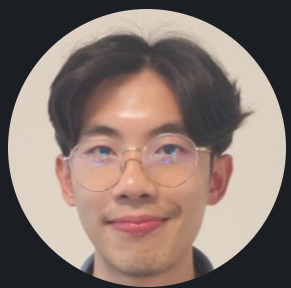
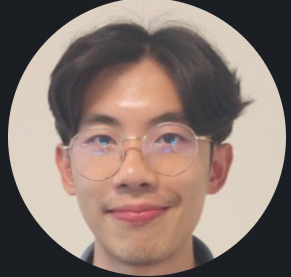
update site layout

diff --git a/index.html b/index.html
@@ -33,18 +33,6 @@
         <a href="index.html"    class="text-sm font-semibold text-white border-b-2 border-white pb-0.5">About</a>
         <a href="projects.html" class="text-sm font-medium text-blue-100 hover:text-white transition-colors">Projects</a>
         <a href="posts.html"    class="text-sm font-medium text-blue-100 hover:text-white transition-colors">Posts</a>
-        <div class="flex items-center gap-3 pl-4 border-l border-blue-400">
-          <a href="https://github.com/caosanity" target="_blank" rel="noopener noreferrer" class="text-blue-100 hover:text-white transition-colors" aria-label="GitHub">
-            <svg class="w-5 h-5" fill="currentColor" viewBox="0 0 24 24">
-              <path d="M12 0c-6.626 0-12 5.373-12 12 0 5.302 3.438 9.8 8.207 11.387.599.111.793-.261.793-.577v-2.234c-3.338.726-4.033-1.416-4.033-1.416-.546-1.387-1.333-1.756-1.333-1.756-1.089-.745.083-.729.083-.729 1.205.084 1.839 1.237 1.839 1.237 1.07 1.834 2.807 1.304 3.492.997.107-.775.418-1.305.762-1.604-2.665-.305-5.467-1.334-5.467-5.931 0-1.311.469-2.381 1.236-3.221-.124-.303-.535-1.524.117-3.176 0 0 1.008-.322 3.301 1.23.957-.266 1.983-.399 3.003-.404 1.02.005 2.047.138 3.006.404 2.291-1.552 3.297-1.23 3.297-1.23.653 1.653.242 2.874.118 3.176.77.84 1.235 1.911 1.235 3.221 0 4.609-2.807 5.624-5.479 5.921.43.372.823 1.102.823 2.222v3.293c0 .319.192.694.801.576 4.765-1.589 8.199-6.086 8.199-11.386 0-6.627-5.373-12-12-12z"/>
-            </svg>
-          </a>
-          <a href="https://www.linkedin.com/in/jeff-cao/" target="_blank" rel="noopener noreferrer" class="text-blue-100 hover:text-white transition-colors" aria-label="LinkedIn">
-            <svg class="w-5 h-5" fill="currentColor" viewBox="0 0 24 24">
-              <path d="M20.447 20.452h-3.554v-5.569c0-1.328-.027-3.037-1.852-3.037-1.853 0-2.136 1.445-2.136 2.939v5.667H9.351V9h3.414v1.561h.046c.477-.9 1.637-1.85 3.37-1.85 3.601 0 4.267 2.37 4.267 5.455v6.286zM5.337 7.433a2.062 2.062 0 01-2.063-2.065 2.064 2.064 0 112.063 2.065zm1.782 13.019H3.555V9h3.564v11.452zM22.225 0H1.771C.792 0 0 .774 0 1.729v20.542C0 23.227.792 24 1.771 24h20.451C23.2 24 24 23.227 24 22.271V1.729C24 .774 23.2 0 22.222 0h.003z"/>
-            </svg>
-          </a>
-        </div>
       </nav>
 
       <!-- Mobile hamburger -->
@@ -64,10 +52,6 @@
         <a href="index.html"    class="text-sm font-semibold text-white">About</a>
         <a href="projects.html" class="text-sm font-medium text-blue-100 hover:text-white transition-colors">Projects</a>
         <a href="posts.html"    class="text-sm font-medium text-blue-100 hover:text-white transition-colors">Posts</a>
-        <div class="flex items-center gap-4 pt-3 border-t border-blue-500">
-          <a href="https://github.com/caosanity" target="_blank" rel="noopener noreferrer" class="text-sm font-medium text-blue-100 hover:text-white transition-colors">GitHub</a>
-          <a href="https://www.linkedin.com/in/jeff-cao/" target="_blank" rel="noopener noreferrer" class="text-sm font-medium text-blue-100 hover:text-white transition-colors">LinkedIn</a>
-        </div>
       </nav>
     </div>
   </header>
@@ -90,18 +74,36 @@
             <p class="fade-in-delay-3 text-xl md:text-2xl text-gray-400 font-light mb-8 leading-relaxed italic">
               Bridging operations and intelligence.
             </p>
-            <div class="fade-in-delay-4 flex flex-wrap gap-4">
-              <a href="projects.html" class="inline-flex items-center gap-2 bg-blue-500 text-white font-semibold px-6 py-3 rounded-lg hover:bg-blue-600 transition-colors shadow-sm">
-                View Projects
-                <svg class="w-4 h-4" fill="none" stroke="currentColor" viewBox="0 0 24 24">
+            <div class="fade-in-delay-4 grid grid-cols-2 md:grid-cols-3 gap-3">
+              <a href="projects.html" class="flex items-center justify-center gap-2 bg-blue-500 text-white font-semibold px-4 py-3 rounded-lg hover:bg-blue-600 transition-colors shadow-sm">
+                <svg class="w-4 h-4 shrink-0" fill="none" stroke="currentColor" viewBox="0 0 24 24">
                   <path stroke-linecap="round" stroke-linejoin="round" stroke-width="2" d="M17 8l4 4m0 0l-4 4m4-4H3"/>
                 </svg>
+                View Projects
               </a>
-              <a href="posts.html" class="inline-flex items-center gap-2 border border-gray-200 text-gray-700 font-semibold px-6 py-3 rounded-lg hover:border-blue-300 hover:text-blue-600 transition-colors">
+              <a href="posts.html" class="flex items-center justify-center gap-2 border border-gray-200 text-gray-700 font-semibold px-4 py-3 rounded-lg hover:border-blue-300 hover:text-blue-600 transition-colors">
                 Read Posts
               </a>
-              <a href="assets/resume/Jeff Cao - Resume.pdf" download class="inline-flex items-center gap-2 border border-gray-200 text-gray-700 font-semibold px-6 py-3 rounded-lg hover:border-blue-300 hover:text-blue-600 transition-colors">
-                <svg class="w-4 h-4" fill="none" stroke="currentColor" viewBox="0 0 24 24">
+              <a href="mailto:jeffcao88@outlook.com" class="flex items-center justify-center gap-2 border border-gray-200 text-gray-700 font-semibold px-4 py-3 rounded-lg hover:border-blue-300 hover:text-blue-600 transition-colors">
+                <svg class="w-4 h-4 shrink-0" fill="none" stroke="currentColor" viewBox="0 0 24 24">
+                  <path stroke-linecap="round" stroke-linejoin="round" stroke-width="2" d="M3 8l7.89 5.26a2 2 0 002.22 0L21 8M5 19h14a2 2 0 002-2V7a2 2 0 00-2-2H5a2 2 0 00-2 2v10a2 2 0 002 2z"/>
+                </svg>
+                Get in Touch
+              </a>
+              <a href="https://github.com/caosanity" target="_blank" rel="noopener noreferrer" class="flex items-center justify-center gap-2 border border-gray-200 text-gray-700 font-semibold px-4 py-3 rounded-lg hover:border-blue-300 hover:text-blue-600 transition-colors">
+                <svg class="w-4 h-4 shrink-0" fill="currentColor" viewBox="0 0 24 24">
+                  <path d="M12 0c-6.626 0-12 5.373-12 12 0 5.302 3.438 9.8 8.207 11.387.599.111.793-.261.793-.577v-2.234c-3.338.726-4.033-1.416-4.033-1.416-.546-1.387-1.333-1.756-1.333-1.756-1.089-.745.083-.729.083-.729 1.205.084 1.839 1.237 1.839 1.237 1.07 1.834 2.807 1.304 3.492.997.107-.775.418-1.305.762-1.604-2.665-.305-5.467-1.334-5.467-5.931 0-1.311.469-2.381 1.236-3.221-.124-.303-.535-1.524.117-3.176 0 0 1.008-.322 3.301 1.23.957-.266 1.983-.399 3.003-.404 1.02.005 2.047.138 3.006.404 2.291-1.552 3.297-1.23 3.297-1.23.653 1.653.242 2.874.118 3.176.77.84 1.235 1.911 1.235 3.221 0 4.609-2.807 5.624-5.479 5.921.43.372.823 1.102.823 2.222v3.293c0 .319.192.694.801.576 4.765-1.589 8.199-6.086 8.199-11.386 0-6.627-5.373-12-12-12z"/>
+                </svg>
+                GitHub
+              </a>
+              <a href="https://www.linkedin.com/in/jeff-cao/" target="_blank" rel="noopener noreferrer" class="flex items-center justify-center gap-2 border border-gray-200 text-gray-700 font-semibold px-4 py-3 rounded-lg hover:border-blue-300 hover:text-blue-600 transition-colors">
+                <svg class="w-4 h-4 shrink-0" fill="currentColor" viewBox="0 0 24 24">
+                  <path d="M20.447 20.452h-3.554v-5.569c0-1.328-.027-3.037-1.852-3.037-1.853 0-2.136 1.445-2.136 2.939v5.667H9.351V9h3.414v1.561h.046c.477-.9 1.637-1.85 3.37-1.85 3.601 0 4.267 2.37 4.267 5.455v6.286zM5.337 7.433a2.062 2.062 0 01-2.063-2.065 2.064 2.064 0 112.063 2.065zm1.782 13.019H3.555V9h3.564v11.452zM22.225 0H1.771C.792 0 0 .774 0 1.729v20.542C0 23.227.792 24 1.771 24h20.451C23.2 24 24 23.227 24 22.271V1.729C24 .774 23.2 0 22.222 0h.003z"/>
+                </svg>
+                LinkedIn
+              </a>
+              <a href="assets/resume/Jeff Cao - Resume.pdf" download class="flex items-center justify-center gap-2 border border-gray-200 text-gray-700 font-semibold px-4 py-3 rounded-lg hover:border-blue-300 hover:text-blue-600 transition-colors">
+                <svg class="w-4 h-4 shrink-0" fill="none" stroke="currentColor" viewBox="0 0 24 24">
                   <path stroke-linecap="round" stroke-linejoin="round" stroke-width="2" d="M12 10v6m0 0l-3-3m3 3l3-3m2 8H7a2 2 0 01-2-2V5a2 2 0 012-2h5.586a1 1 0 01.707.293l5.414 5.414a1 1 0 01.293.707V19a2 2 0 01-2 2z"/>
                 </svg>
                 Resume
@@ -111,7 +113,7 @@
 
           <!-- Photo -->
           <div class="flex justify-center md:justify-end fade-in-delay-2">
-            <img src="assets/images/pic.png" alt="Jeff Cao" class="w-64 h-64 md:w-70 md:h-70 rounded-full object-cover shadow-lg" />
+            <img src="assets/images/pic.png" alt="Jeff Cao" class="w-64 h-64 md:w-70 md:h-70 rounded-full object-cover" />
           </div>
 
         </div>
@@ -208,6 +210,7 @@
     <div class="max-w-5xl mx-auto px-6 flex flex-col md:flex-row items-center justify-between gap-4">
       <p class="text-sm text-gray-400">© 2026 Jeff Cao. All rights reserved.</p>
       <div class="flex items-center gap-5">
+        <a href="mailto:jeffcao88@outlook.com" class="text-gray-400 hover:text-blue-500 transition-colors text-sm">jeffcao88@outlook.com</a>
         <a href="https://www.linkedin.com/in/jeff-cao/" target="_blank" rel="noopener noreferrer" class="text-gray-400 hover:text-blue-500 transition-colors" aria-label="LinkedIn">
           <svg class="w-5 h-5" fill="currentColor" viewBox="0 0 24 24">
             <path d="M20.447 20.452h-3.554v-5.569c0-1.328-.027-3.037-1.852-3.037-1.853 0-2.136 1.445-2.136 2.939v5.667H9.351V9h3.414v1.561h.046c.477-.9 1.637-1.85 3.37-1.85 3.601 0 4.267 2.37 4.267 5.455v6.286zM5.337 7.433a2.062 2.062 0 01-2.063-2.065 2.064 2.064 0 112.063 2.065zm1.782 13.019H3.555V9h3.564v11.452zM22.225 0H1.771C.792 0 0 .774 0 1.729v20.542C0 23.227.792 24 1.771 24h20.451C23.2 24 24 23.227 24 22.271V1.729C24 .774 23.2 0 22.222 0h.003z"/>

diff --git a/posts.html b/posts.html
@@ -32,18 +32,6 @@
         <a href="index.html"    class="text-sm font-medium text-blue-100 hover:text-white transition-colors">About</a>
         <a href="projects.html" class="text-sm font-medium text-blue-100 hover:text-white transition-colors">Projects</a>
         <a href="posts.html"    class="text-sm font-semibold text-white border-b-2 border-white pb-0.5">Posts</a>
-        <div class="flex items-center gap-3 pl-4 border-l border-blue-400">
-          <a href="https://github.com/caosanity" target="_blank" rel="noopener noreferrer" class="text-blue-100 hover:text-white transition-colors" aria-label="GitHub">
-            <svg class="w-5 h-5" fill="currentColor" viewBox="0 0 24 24">
-              <path d="M12 0c-6.626 0-12 5.373-12 12 0 5.302 3.438 9.8 8.207 11.387.599.111.793-.261.793-.577v-2.234c-3.338.726-4.033-1.416-4.033-1.416-.546-1.387-1.333-1.756-1.333-1.756-1.089-.745.083-.729.083-.729 1.205.084 1.839 1.237 1.839 1.237 1.07 1.834 2.807 1.304 3.492.997.107-.775.418-1.305.762-1.604-2.665-.305-5.467-1.334-5.467-5.931 0-1.311.469-2.381 1.236-3.221-.124-.303-.535-1.524.117-3.176 0 0 1.008-.322 3.301 1.23.957-.266 1.983-.399 3.003-.404 1.02.005 2.047.138 3.006.404 2.291-1.552 3.297-1.23 3.297-1.23.653 1.653.242 2.874.118 3.176.77.84 1.235 1.911 1.235 3.221 0 4.609-2.807 5.624-5.479 5.921.43.372.823 1.102.823 2.222v3.293c0 .319.192.694.801.576 4.765-1.589 8.199-6.086 8.199-11.386 0-6.627-5.373-12-12-12z"/>
-            </svg>
-          </a>
-          <a href="https://www.linkedin.com/in/jeff-cao/" target="_blank" rel="noopener noreferrer" class="text-blue-100 hover:text-white transition-colors" aria-label="LinkedIn">
-            <svg class="w-5 h-5" fill="currentColor" viewBox="0 0 24 24">
-              <path d="M20.447 20.452h-3.554v-5.569c0-1.328-.027-3.037-1.852-3.037-1.853 0-2.136 1.445-2.136 2.939v5.667H9.351V9h3.414v1.561h.046c.477-.9 1.637-1.85 3.37-1.85 3.601 0 4.267 2.37 4.267 5.455v6.286zM5.337 7.433a2.062 2.062 0 01-2.063-2.065 2.064 2.064 0 112.063 2.065zm1.782 13.019H3.555V9h3.564v11.452zM22.225 0H1.771C.792 0 0 .774 0 1.729v20.542C0 23.227.792 24 1.771 24h20.451C23.2 24 24 23.227 24 22.271V1.729C24 .774 23.2 0 22.222 0h.003z"/>
-            </svg>
-          </a>
-        </div>
       </nav>
 
       <button id="menuBtn" class="md:hidden p-2 rounded-lg hover:bg-blue-600 transition-colors text-white" aria-label="Toggle menu">
@@ -60,10 +48,6 @@
         <a href="index.html"    class="text-sm font-medium text-blue-100 hover:text-white transition-colors">About</a>
         <a href="projects.html" class="text-sm font-medium text-blue-100 hover:text-white transition-colors">Projects</a>
         <a href="posts.html"    class="text-sm font-semibold text-white">Posts</a>
-        <div class="flex items-center gap-4 pt-3 border-t border-blue-500">
-          <a href="https://github.com/caosanity" target="_blank" rel="noopener noreferrer" class="text-sm font-medium text-blue-100 hover:text-white transition-colors">GitHub</a>
-          <a href="https://www.linkedin.com/in/jeff-cao/" target="_blank" rel="noopener noreferrer" class="text-sm font-medium text-blue-100 hover:text-white transition-colors">LinkedIn</a>
-        </div>
       </nav>
     </div>
   </header>

diff --git a/projects.html b/projects.html
@@ -32,18 +32,6 @@
         <a href="index.html"    class="text-sm font-medium text-blue-100 hover:text-white transition-colors">About</a>
         <a href="projects.html" class="text-sm font-semibold text-white border-b-2 border-white pb-0.5">Projects</a>
         <a href="posts.html"    class="text-sm font-medium text-blue-100 hover:text-white transition-colors">Posts</a>
-        <div class="flex items-center gap-3 pl-4 border-l border-blue-400">
-          <a href="https://github.com/caosanity" target="_blank" rel="noopener noreferrer" class="text-blue-100 hover:text-white transition-colors" aria-label="GitHub">
-            <svg class="w-5 h-5" fill="currentColor" viewBox="0 0 24 24">
-              <path d="M12 0c-6.626 0-12 5.373-12 12 0 5.302 3.438 9.8 8.207 11.387.599.111.793-.261.793-.577v-2.234c-3.338.726-4.033-1.416-4.033-1.416-.546-1.387-1.333-1.756-1.333-1.756-1.089-.745.083-.729.083-.729 1.205.084 1.839 1.237 1.839 1.237 1.07 1.834 2.807 1.304 3.492.997.107-.775.418-1.305.762-1.604-2.665-.305-5.467-1.334-5.467-5.931 0-1.311.469-2.381 1.236-3.221-.124-.303-.535-1.524.117-3.176 0 0 1.008-.322 3.301 1.23.957-.266 1.983-.399 3.003-.404 1.02.005 2.047.138 3.006.404 2.291-1.552 3.297-1.23 3.297-1.23.653 1.653.242 2.874.118 3.176.77.84 1.235 1.911 1.235 3.221 0 4.609-2.807 5.624-5.479 5.921.43.372.823 1.102.823 2.222v3.293c0 .319.192.694.801.576 4.765-1.589 8.199-6.086 8.199-11.386 0-6.627-5.373-12-12-12z"/>
-            </svg>
-          </a>
-          <a href="https://www.linkedin.com/in/jeff-cao/" target="_blank" rel="noopener noreferrer" class="text-blue-100 hover:text-white transition-colors" aria-label="LinkedIn">
-            <svg class="w-5 h-5" fill="currentColor" viewBox="0 0 24 24">
-              <path d="M20.447 20.452h-3.554v-5.569c0-1.328-.027-3.037-1.852-3.037-1.853 0-2.136 1.445-2.136 2.939v5.667H9.351V9h3.414v1.561h.046c.477-.9 1.637-1.85 3.37-1.85 3.601 0 4.267 2.37 4.267 5.455v6.286zM5.337 7.433a2.062 2.062 0 01-2.063-2.065 2.064 2.064 0 112.063 2.065zm1.782 13.019H3.555V9h3.564v11.452zM22.225 0H1.771C.792 0 0 .774 0 1.729v20.542C0 23.227.792 24 1.771 24h20.451C23.2 24 24 23.227 24 22.271V1.729C24 .774 23.2 0 22.222 0h.003z"/>
-            </svg>
-          </a>
-        </div>
       </nav>
 
       <button id="menuBtn" class="md:hidden p-2 rounded-lg hover:bg-blue-600 transition-colors text-white" aria-label="Toggle menu">
@@ -60,10 +48,6 @@
         <a href="index.html"    class="text-sm font-medium text-blue-100 hover:text-white transition-colors">About</a>
         <a href="projects.html" class="text-sm font-semibold text-white">Projects</a>
         <a href="posts.html"    class="text-sm font-medium text-blue-100 hover:text-white transition-colors">Posts</a>
-        <div class="flex items-center gap-4 pt-3 border-t border-blue-500">
-          <a href="https://github.com/caosanity" target="_blank" rel="noopener noreferrer" class="text-sm font-medium text-blue-100 hover:text-white transition-colors">GitHub</a>
-          <a href="https://www.linkedin.com/in/jeff-cao/" target="_blank" rel="noopener noreferrer" class="text-sm font-medium text-blue-100 hover:text-white transition-colors">LinkedIn</a>
-        </div>
       </nav>
     </div>
   </header>
